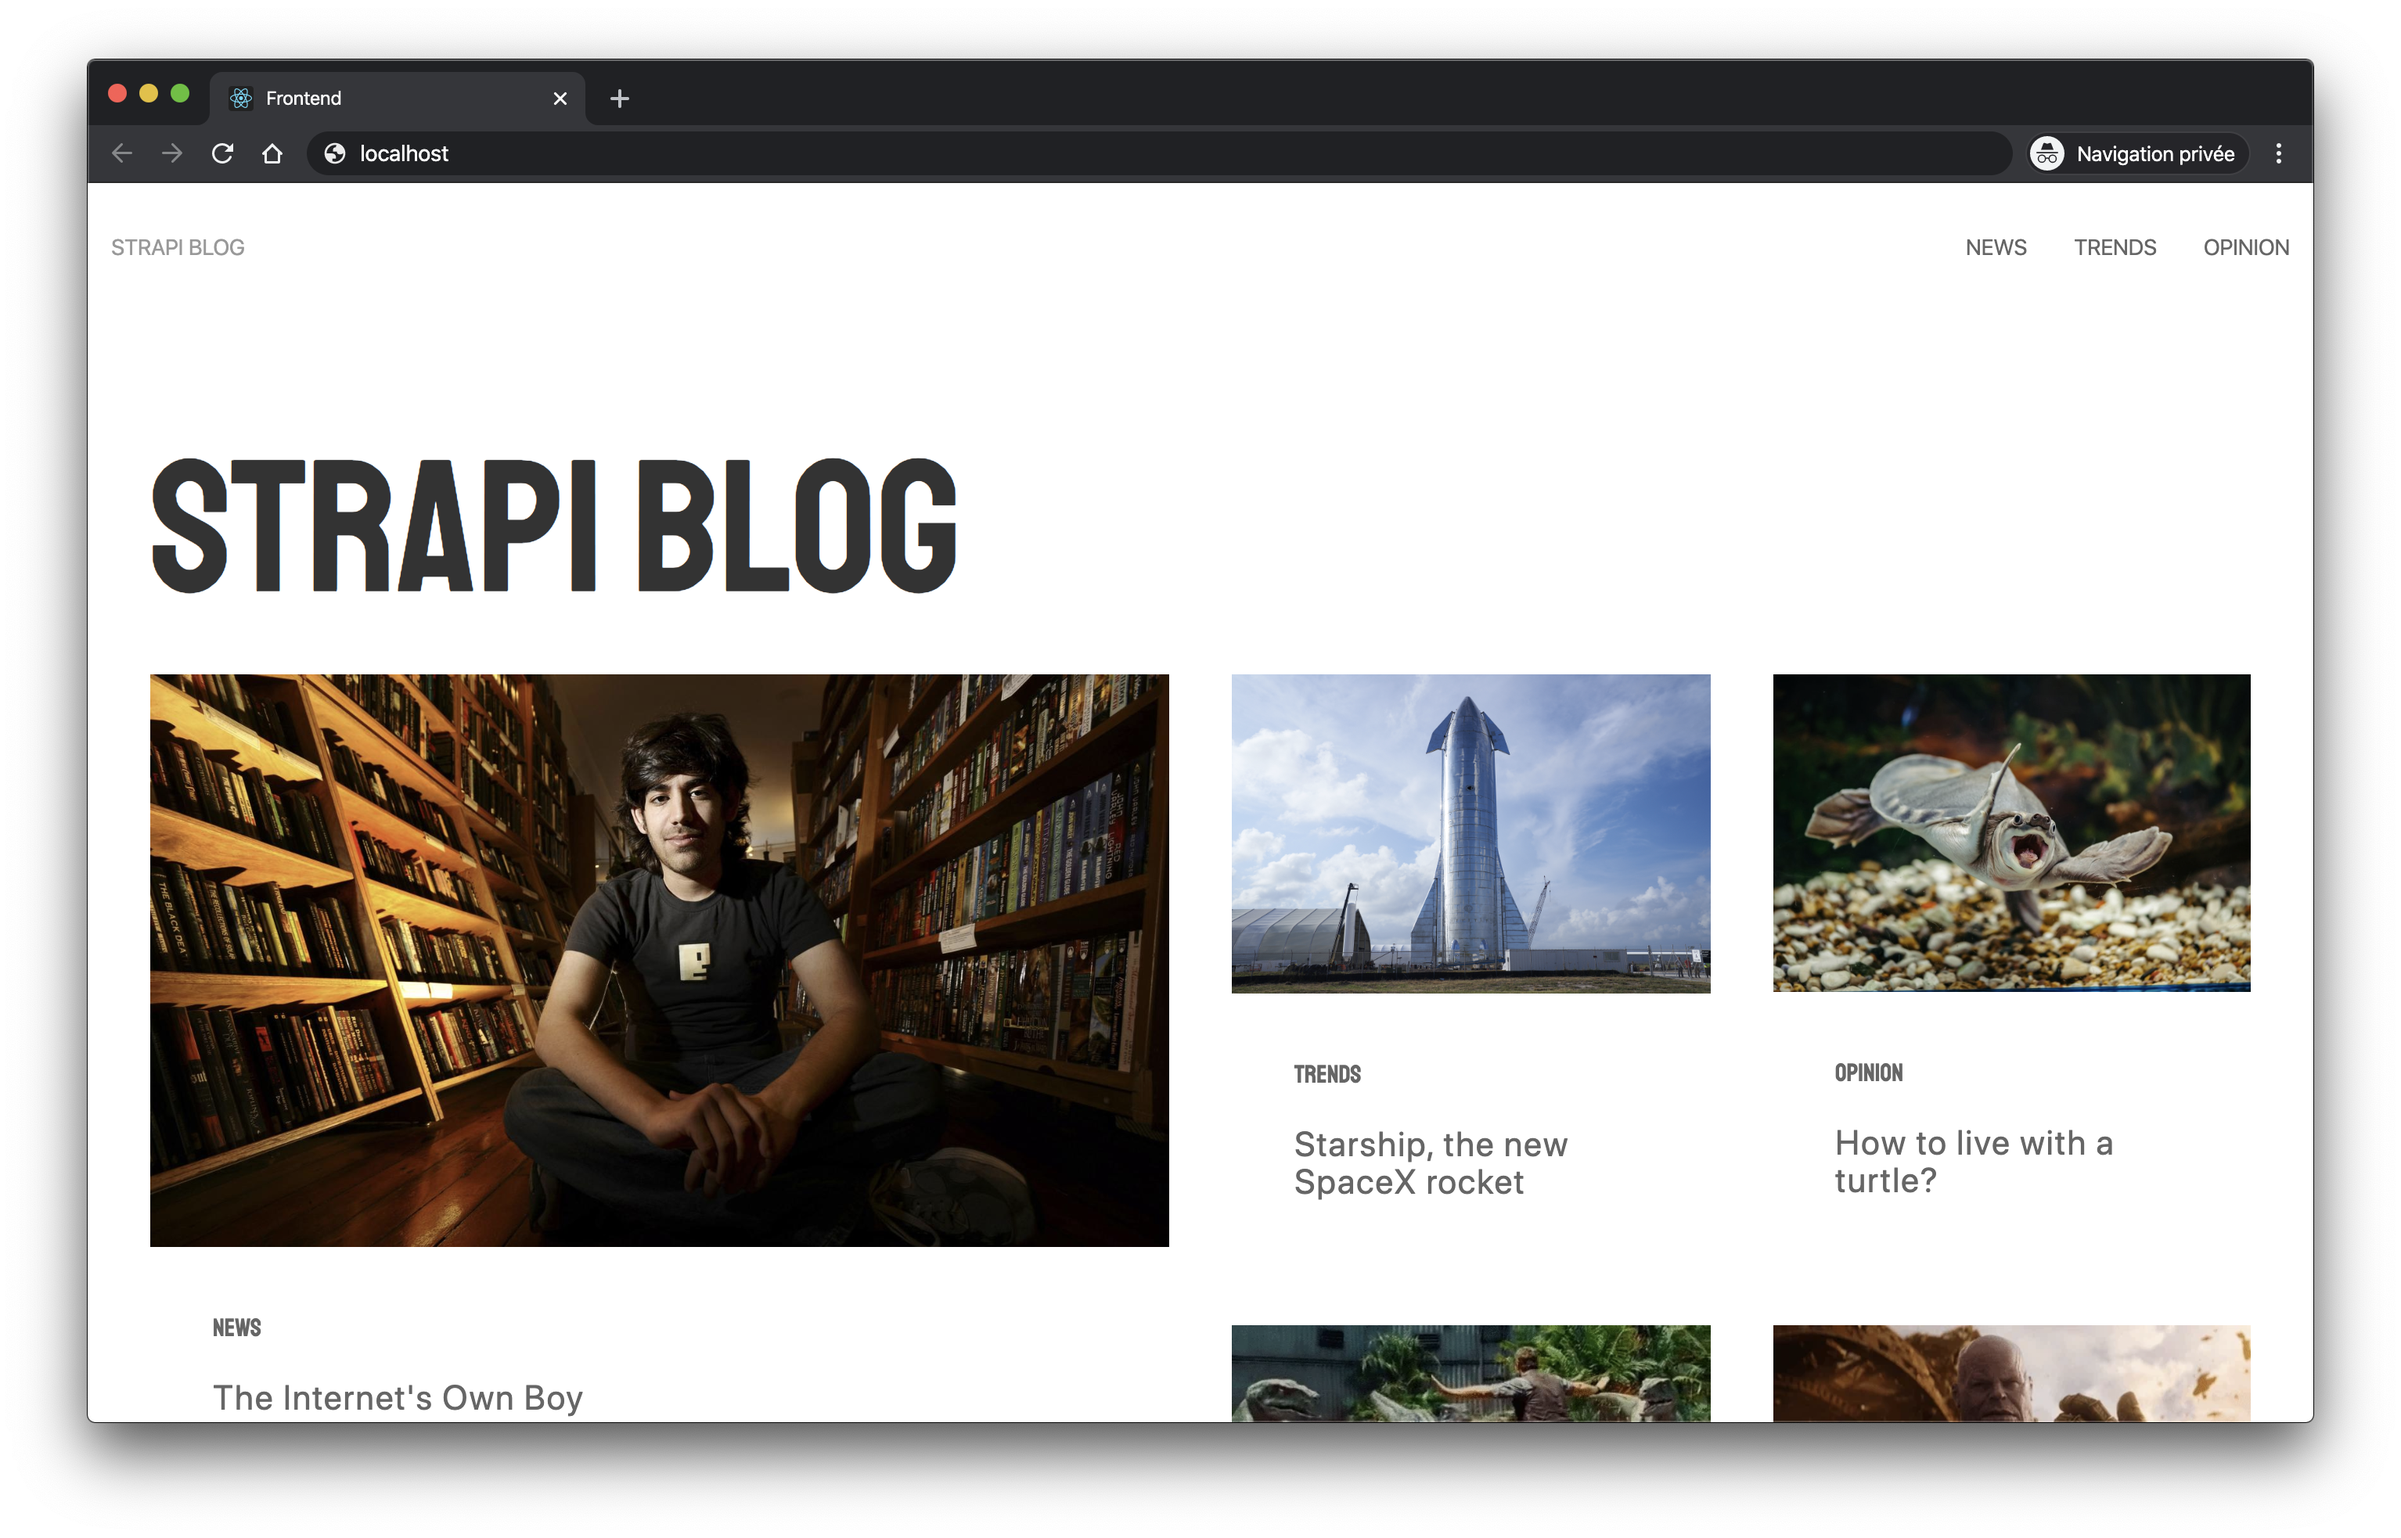
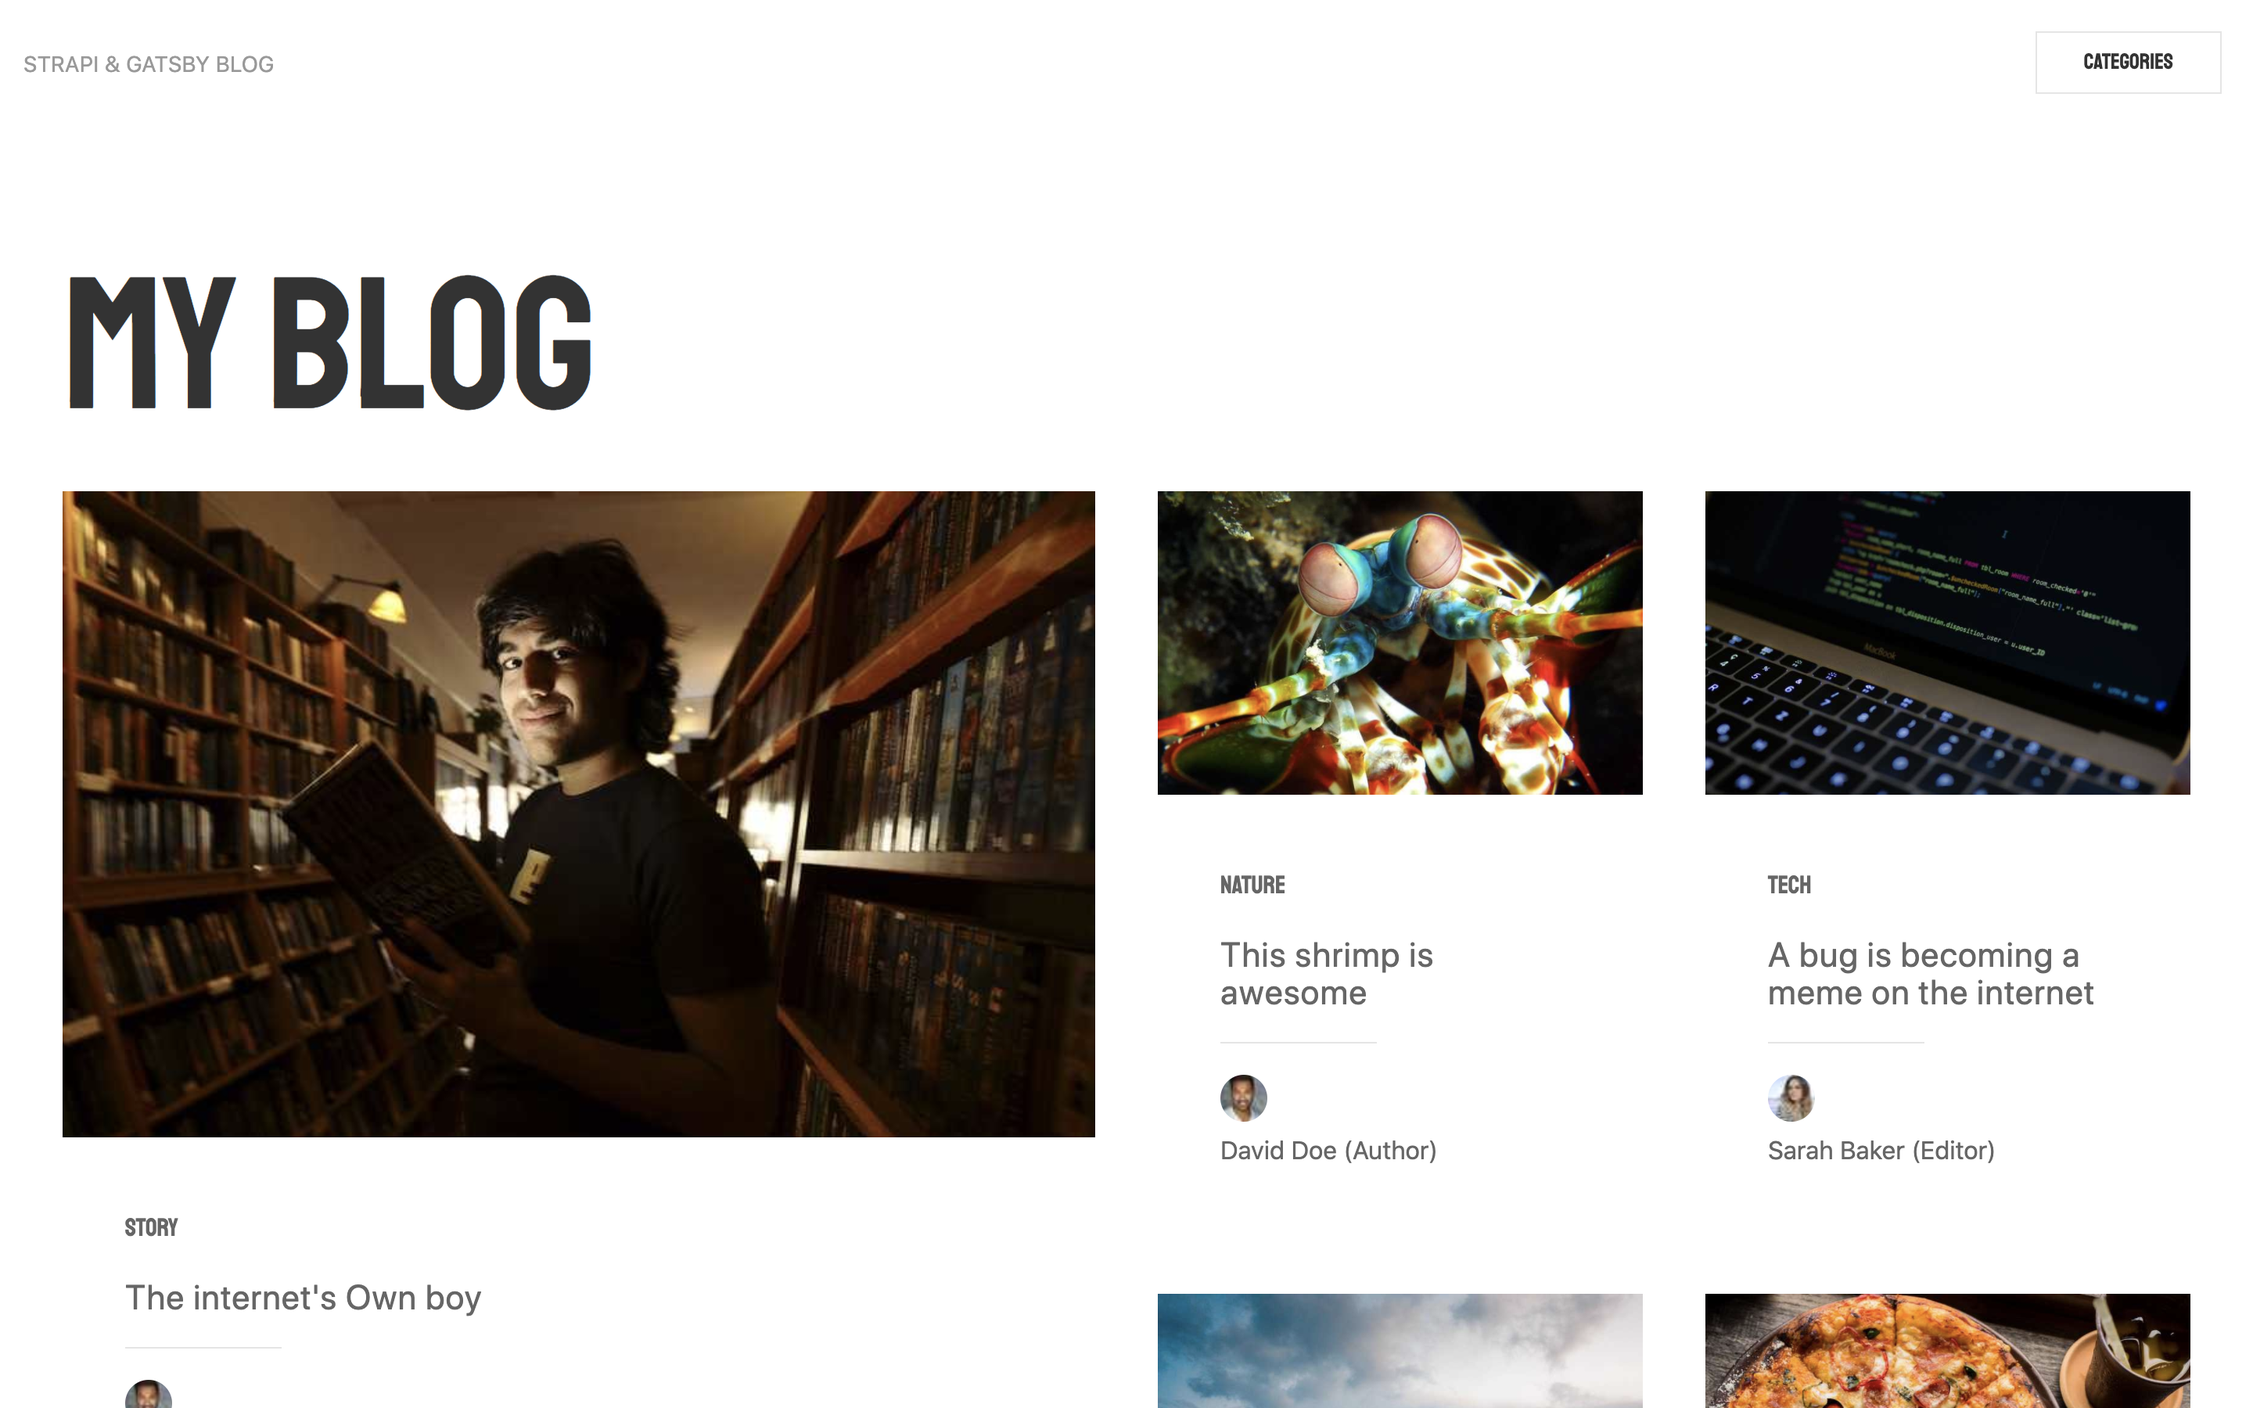
Update

diff --git a/README.md b/README.md
@@ -1,99 +1,144 @@
-<!-- AUTO-GENERATED-CONTENT:START (STARTER) -->
-<p align="center">
-  <a href="https://www.gatsbyjs.org">
-    <img alt="Gatsby" src="https://www.gatsbyjs.org/monogram.svg" width="60" />
-  </a>
-</p>
-<h1 align="center">
-  Gatsby's default starter
-</h1>
+# Strapi Starter Gatsby Blog v2
 
-Kick off your project with this default boilerplate. This starter ships with the main Gatsby configuration files you might need to get up and running blazing fast with the blazing fast app generator for React.
+Gatsby starter for creating an great blog with Strapi.
 
-_Have another more specific idea? You may want to check out our vibrant collection of [official and community-created starters](https://www.gatsbyjs.org/docs/gatsby-starters/)._
+This starter allows you to try Strapi with Gatsby with the example of a simple blog. It is fully customizable and due to the fact that it is open source, fully open to contributions. Do not hesitate to add new features etc ...
 
-## 🚀 Quick start
+![screenshot image](/screenshot.png)
 
-1.  **Create a Gatsby site.**
+### Deploy the backend
 
-    Use the Gatsby CLI to create a new site, specifying the default starter.
+To deploy the Strapi instance you'll need:
 
-    ```shell
-    # create a new Gatsby site using the default starter
-    gatsby new my-default-starter https://github.com/gatsbyjs/gatsby-starter-default
-    ```
+- [An Heroku account](https://signup.heroku.com/) for free
+- [A Cloudinary account for saving images](https://cloudinary.com/users/register/free) for free
 
-1.  **Start developing.**
+Once you have created these accounts you can deploy your instance by clicking on this button
 
-    Navigate into your new site’s directory and start it up.
+[![Deploy](https://www.herokucdn.com/deploy/button.svg)](https://heroku.com/deploy?template=https://github.com/strapi/strapi-starter-gatsby-blog-v2)
 
-    ```shell
-    cd my-default-starter/
-    gatsby develop
-    ```
+### Deploy the frontend
 
-1.  **Open the source code and start editing!**
+**On Vercel**
 
-    Your site is now running at `http://localhost:8000`!
+To deploy the Gatsby blog you'll need:
 
-    _Note: You'll also see a second link: _`http://localhost:8000/___graphql`_. This is a tool you can use to experiment with querying your data. Learn more about using this tool in the [Gatsby tutorial](https://www.gatsbyjs.org/tutorial/part-five/#introducing-graphiql)._
+  - [A Vercel account](https://vercel.com/dashboard) for free
+  - Wait for your heroku instance to be up and running before deploying your Gatsby Blog
+  - Vercel will ask you the root directory of the project to deploy which is **frontend**
 
-    Open the `my-default-starter` directory in your code editor of choice and edit `src/pages/index.js`. Save your changes and the browser will update in real time!
+[![Deploy with Vercel](https://vercel.com/button)](https://vercel.com/import/git?s=https%3A%2F%2Fgithub.com%2Fstrapi%2Fstrapi-starter-gatsby-blog-v2&env=API_URL&envDescription=Enter%20the%20url%20of%20your%20Strapi%20API%20without%20the%20trailing%20slash&project-name=my-strapi-starter-gatsby-blog)  
 
-## 🧐 What's inside?
+  - Select the repository you want to deploy, here it's the strapi-starter-gatsby-blog-v2
+  - Select the root directory of your frontend
 
-A quick look at the top-level files and directories you'll see in a Gatsby project.
+![Root directory](/medias/vercel-deploy-step-1.png)
 
-    .
-    ├── node_modules
-    ├── src
-    ├── .gitignore
-    ├── .prettierrc
-    ├── gatsby-browser.js
-    ├── gatsby-config.js
-    ├── gatsby-node.js
-    ├── gatsby-ssr.js
-    ├── LICENSE
-    ├── package-lock.json
-    ├── package.json
-    └── README.md
+  - Paste the url of your running Strapi instance on Heroku without the trailing slash
 
-1.  **`/node_modules`**: This directory contains all of the modules of code that your project depends on (npm packages) are automatically installed.
+![Root directory](/medias/vercel-deploy-step-2.png)  
 
-2.  **`/src`**: This directory will contain all of the code related to what you will see on the front-end of your site (what you see in the browser) such as your site header or a page template. `src` is a convention for “source code”.
+**On Gatsby Cloud**
 
-3.  **`.gitignore`**: This file tells git which files it should not track / not maintain a version history for.
+You may want to deploy this starter frontend on [Gatsby Cloud](https://www.gatsbyjs.com/dashboard) in order to try the Gatsby Preview maybe!
 
-4.  **`.prettierrc`**: This is a configuration file for [Prettier](https://prettier.io/). Prettier is a tool to help keep the formatting of your code consistent.
+- Fork this starter on your own Github account
+- Create a new site by choosing the option "I already have a Gatsby site"
 
-5.  **`gatsby-browser.js`**: This file is where Gatsby expects to find any usage of the [Gatsby browser APIs](https://www.gatsbyjs.org/docs/browser-apis/) (if any). These allow customization/extension of default Gatsby settings affecting the browser.
+![Create a New site](/medias/create-a-new-site.png)
 
-6.  **`gatsby-config.js`**: This is the main configuration file for a Gatsby site. This is where you can specify information about your site (metadata) like the site title and description, which Gatsby plugins you’d like to include, etc. (Check out the [config docs](https://www.gatsbyjs.org/docs/gatsby-config/) for more detail).
+You'll be asked to select the repository you want to use
 
-7.  **`gatsby-node.js`**: This file is where Gatsby expects to find any usage of the [Gatsby Node APIs](https://www.gatsbyjs.org/docs/node-apis/) (if any). These allow customization/extension of default Gatsby settings affecting pieces of the site build process.
+- Select your new Strapi Starter Gatsby Blog repository you just forked and specify the Gatsby project folder which is `frontend` in this starter
 
-8.  **`gatsby-ssr.js`**: This file is where Gatsby expects to find any usage of the [Gatsby server-side rendering APIs](https://www.gatsbyjs.org/docs/ssr-apis/) (if any). These allow customization of default Gatsby settings affecting server-side rendering.
+![Repository](/medias/repository.png)
 
-9.  **`LICENSE`**: Gatsby is licensed under the MIT license.
+- You can then copy the webhook url and skip this step
 
-10. **`package-lock.json`** (See `package.json` below, first). This is an automatically generated file based on the exact versions of your npm dependencies that were installed for your project. **(You won’t change this file directly).**
+![Skip step](/medias/skip.png)
 
-11. **`package.json`**: A manifest file for Node.js projects, which includes things like metadata (the project’s name, author, etc). This manifest is how npm knows which packages to install for your project.
+- Paste your Strapi `API_URL` for both of your `Builds Environment variables` and `Preview Environment variables` (we consider that you deployed your strapi server)
 
-12. **`README.md`**: A text file containing useful reference information about your project.
+![Env](/medias/env.png)
 
-## 🎓 Learning Gatsby
+Now you'll need to create a Webhook on your strapi server in order to tell Gatsby cloud to build your Gatsby project each time your create/update/delete content
 
-Looking for more guidance? Full documentation for Gatsby lives [on the website](https://www.gatsbyjs.org/). Here are some places to start:
+- Open your Strapi admin panel and go to `/admin/settings/webhooks`
+- Create a new Webhook with following properties:
+  - Name: `Gatsby Cloud`
+  - Url: The first Webhook Url Gatsby Cloud provide in your Gatsby Dashboard Sites. It should be something like this: `https://webhook.gatsbyjs.com/hooks/data_source/` without the `/publish/`
+  - Check every Events for `Entry` and `Media`
 
-- **For most developers, we recommend starting with our [in-depth tutorial for creating a site with Gatsby](https://www.gatsbyjs.org/tutorial/).** It starts with zero assumptions about your level of ability and walks through every step of the process.
+That's it! Now Strapi will inform Gatsby Cloud to build your Gatsby project everytime you create/update/delete content
 
-- **To dive straight into code samples, head [to our documentation](https://www.gatsbyjs.org/docs/).** In particular, check out the _Guides_, _API Reference_, and _Advanced Tutorials_ sections in the sidebar.
+### Automatic build on Vercel
 
-## 💫 Deploy
+We're using Gatsby which is a static site generator (SSG). This means we need to trigger new builds when the content changes in Strapi. We'll use webhooks to do this automatically.
 
-[![Deploy to Netlify](https://www.netlify.com/img/deploy/button.svg)](https://app.netlify.com/start/deploy?repository=https://github.com/gatsbyjs/gatsby-starter-default)
+We first need to create a Deploy Hook in Vercel. In your project's settings, go to the end of the Git Integration tab. Name your hook however you want, but make sure you link it to your master branch.
 
-[![Deploy with Vercel](https://vercel.com/button)](https://vercel.com/import/project?template=https://github.com/gatsbyjs/gatsby-starter-default)
+![Webhooks vercel](/medias/vercel-deploy-hook.png)
 
-<!-- AUTO-GENERATED-CONTENT:END -->
+Then copy the generated URL and open your Strapi admin in production. In the settings tab, open Webhooks and paste the hook URL. Make sure you check all events to trigger build after every change.
+
+![Webhooks Strapi](/medias/webhook-vercel.png)
+![Webhooks Strapi](/medias/webhooks.png)
+
+Now everytime we make a change in Strapi, Vercel creates a new build!
+
+### Features in Strapi
+
+- 1 Single type
+- 4 Components
+- 3 Collection types: Article, Category, User
+- 6 Created articles
+- 5 Created categories
+- Permissions set to `true` for article, category and user
+- Responsive design using UIkit
+- Slug system
+- Publication system (draft & published)
+- Role based access control
+
+### Features in Gatsby
+
+- gatsby-image
+- Seo friendly
+
+### Getting started
+
+Clone the repository
+
+```
+git clone https://github.com/strapi/strapi-starter-gatsby-blog-v2.git
+cd strapi-starter-gatsby-blog-v2
+```
+
+**Backend**
+
+Install dependencies and run your server
+
+```bash
+# Using yarn
+yarn install
+yarn develop
+
+# Using npm
+npm install
+npm run develop
+```
+
+**Frontend**
+
+```bash
+# Using yarn
+yarn install
+yarn develop
+
+# Using npm
+npm install
+npm run develop
+```
+
+Gatsby server is running here => [http://localhost:8000](http://localhost:8000)
+
+Enjoy this starter
